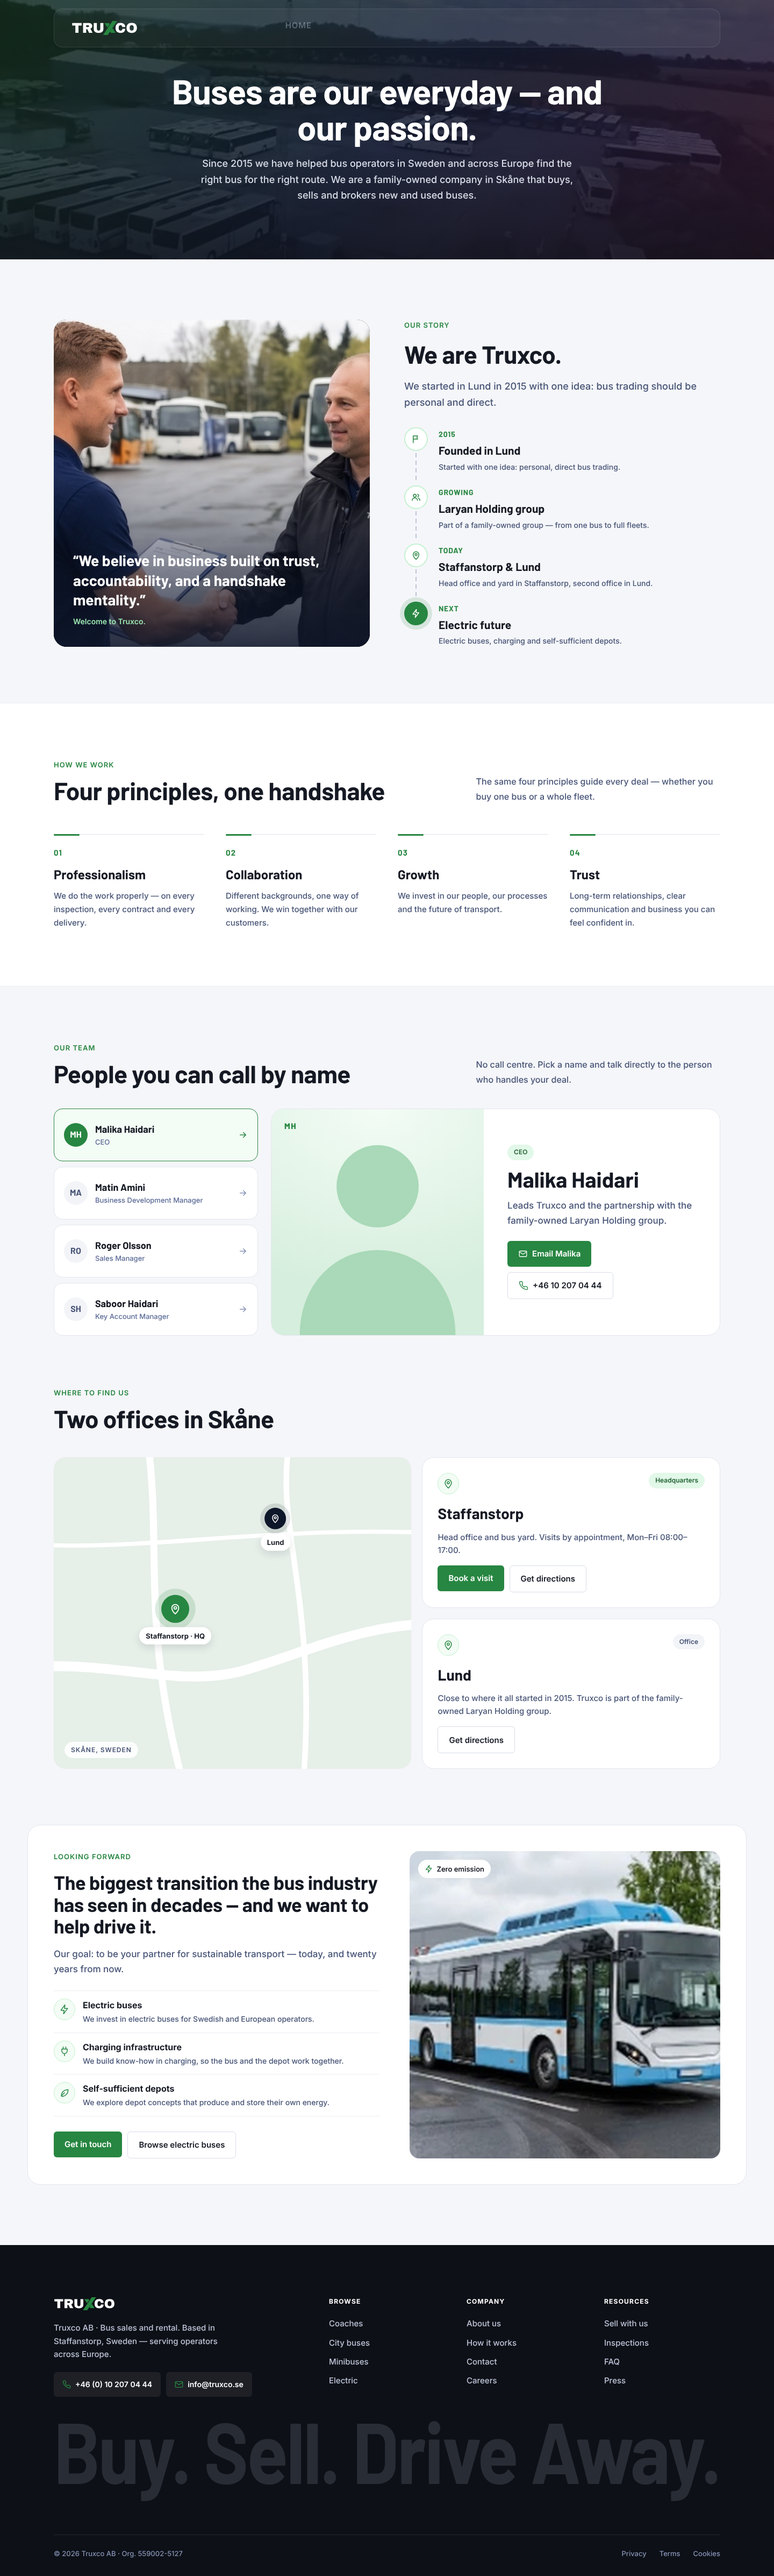
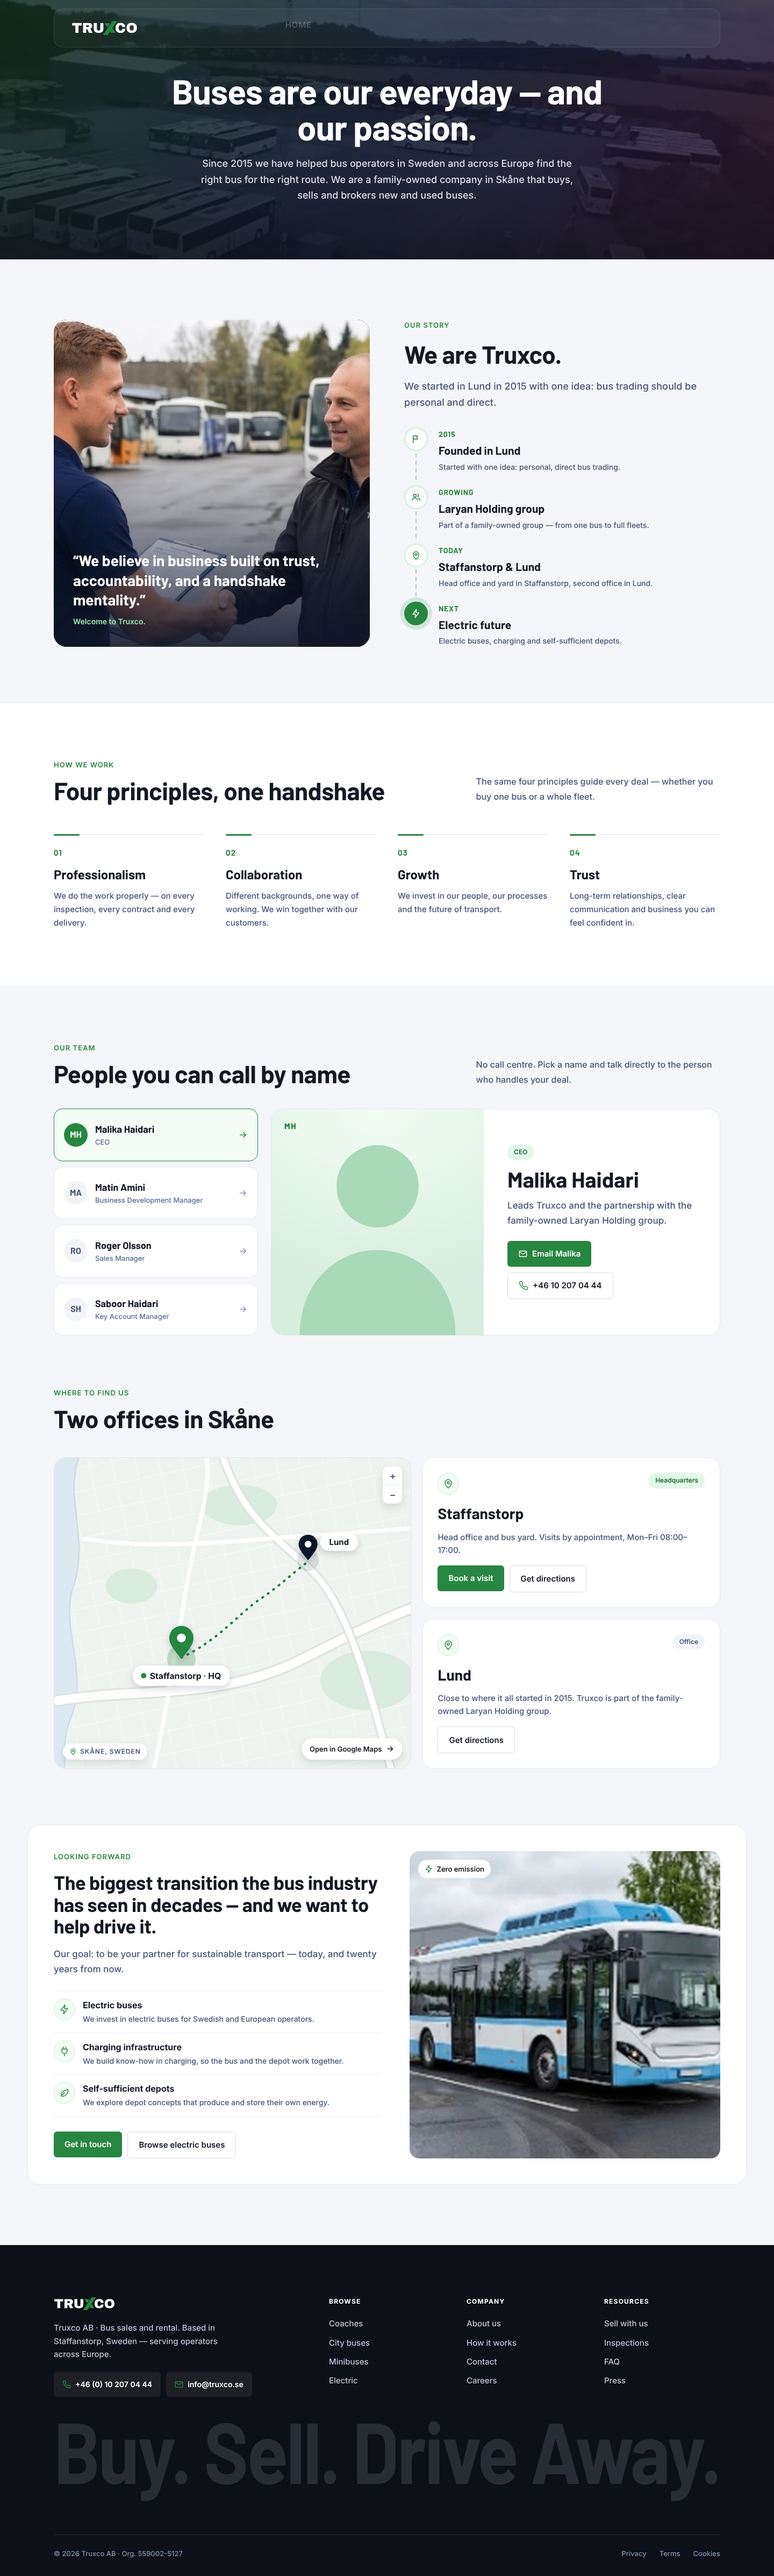
About us: refined offices map (coast, parks, roads, route, map controls)
Claude-Session: https://claude.ai/code/session_01CJrfSMbtJkdqaRmDBKHX4E

diff --git a/truxco-design/website-v2/AboutUs.dc.html b/truxco-design/website-v2/AboutUs.dc.html
@@ -382,23 +382,28 @@ a{color:#3050A6}a:hover{color:#151923}
 @media (max-width: 600px){.ofc-in,.ofc-lund{padding:24px}.ofc-in h3{font-size:32px}}
 
 .ofm-grid{display:grid;grid-template-columns:minmax(0,1.2fr) minmax(0,1fr);gap:20px}
-.ofm-map{position:relative;border-radius:22px;overflow:hidden;min-height:440px;background:#E6EFE8}
+.ofm-map{position:relative;border-radius:22px;overflow:hidden;min-height:440px;background:#EEF3EF;border:1px solid #E3E6EE}
+.ofm-svg{position:absolute;inset:0;width:100%;height:100%;display:block}
+.ofm-pulse{transform-box:fill-box;transform-origin:center;animation:ofmPulse 2.4s ease-out infinite}
+@keyframes ofmPulse{0%{transform:scale(.6);opacity:.35}100%{transform:scale(1.8);opacity:0}}
+.ofm-ctrl{position:absolute;top:16px;right:16px;display:flex;flex-direction:column;background:#FFFFFF;border-radius:10px;box-shadow:0 6px 16px rgba(14,22,42,.12);overflow:hidden}.ofm-ctrl span{width:36px;height:34px;display:flex;align-items:center;justify-content:center;font-size:18px;font-weight:600;color:#475476}.ofm-ctrl span+span{border-top:1px solid #ECEEF4}
+.ofm-open{position:absolute;right:16px;bottom:16px;display:inline-flex;align-items:center;gap:8px;height:40px;padding:0 14px;border-radius:999px;background:#FFFFFF;color:#151923;text-decoration:none;font-size:13px;font-weight:600;box-shadow:0 6px 16px rgba(14,22,42,.12);transition:color .15s}.ofm-open:hover{color:#278641}.ofm-open:focus-visible{outline:2px solid #278641;outline-offset:3px}
 .ofm-roads{position:absolute;inset:0;width:100%;height:100%}
 .ofm-pin{position:absolute;transform:translate(-50%,-100%);display:flex;flex-direction:column;align-items:center;gap:8px}
 .ofm-pd{width:52px;height:52px;border-radius:50%;background:#278641;display:flex;align-items:center;justify-content:center;box-shadow:0 0 0 10px rgba(39,134,65,.18);animation:ofmPing 2.4s ease-in-out infinite}
 .ofm-pd.small{width:40px;height:40px;background:#0E162A;box-shadow:0 0 0 8px rgba(14,22,42,.12);animation:none}
 @keyframes ofmPing{50%{box-shadow:0 0 0 16px rgba(39,134,65,.1)}}
 .ofm-pl{font-size:13px;font-weight:700;color:#151923;background:#FFFFFF;padding:6px 12px;border-radius:999px;box-shadow:0 6px 16px rgba(14,22,42,.12);white-space:nowrap}
-.ofm-region{position:absolute;left:20px;bottom:20px;font-size:12px;font-weight:600;letter-spacing:.08em;text-transform:uppercase;color:#475476;background:rgba(255,255,255,.88);padding:6px 12px;border-radius:999px}
+.ofm-region{position:absolute;left:16px;bottom:16px;display:inline-flex;align-items:center;gap:6px;box-shadow:0 6px 16px rgba(14,22,42,.10);font-size:12px;font-weight:600;letter-spacing:.08em;text-transform:uppercase;color:#475476;background:rgba(255,255,255,.88);padding:6px 12px;border-radius:999px}
 .ofm-list{display:flex;flex-direction:column;gap:20px}
 .ofm-row{flex:1;background:#FFFFFF;border:1px solid #E3E6EE;border-radius:22px;padding:28px;display:flex;flex-direction:column;gap:10px}
 .ofm-top{display:flex;justify-content:space-between;align-items:center;margin-bottom:4px}
 .ofm-row h3{margin:0;font-family:'Barlow',sans-serif;font-weight:700;font-size:28px;color:#151923}
 .ofm-row p{margin:0;font-size:15px;line-height:1.6;color:#475476}
 .ofm-row .ab-row{margin-top:auto;padding-top:6px}
-@media (prefers-reduced-motion: reduce){.ofm-pd{animation:none}}
+@media (prefers-reduced-motion: reduce){.ofm-pd,.ofm-pulse{animation:none}}
 @media (max-width: 860px){.ofm-grid{grid-template-columns:minmax(0,1fr)}.ofm-map{min-height:320px}}
-@media (max-width: 600px){.ofm-row{padding:24px}}
+@media (max-width: 600px){.ofm-row{padding:24px}.ofm-region{display:none}.ofm-open{height:36px;font-size:12px}}
 
 .sty-grid{display:grid;grid-template-columns:minmax(0,1fr) minmax(0,1fr);gap:64px;align-items:stretch}
 .sty-img{position:relative;border-radius:24px;overflow:hidden;min-height:600px;display:flex;align-items:flex-end;background:#0E162A}
@@ -544,10 +549,36 @@ a{color:#3050A6}a:hover{color:#151923}
 <div style="display: flex; flex-direction: column; gap: 14px"><span class="ab-eyebrow">Where to find us</span><h2 id="ab-off-h" class="ab-h2">Two offices in Skåne</h2></div>
 <div class="ofm-grid">
 <div class="ofm-map" role="img" aria-label="Map showing the Truxco offices in Staffanstorp and Lund, Skåne">
-<svg class="ofm-roads" aria-hidden="true" viewBox="0 0 600 440" preserveAspectRatio="xMidYMid slice"><path d="M-20 300 C 120 280 220 330 320 300 S 520 220 640 240" stroke="#FFFFFF" stroke-width="14" fill="none"></path><path d="M180 -20 C 200 120 170 240 230 460" stroke="#FFFFFF" stroke-width="10" fill="none"></path><path d="M380 -20 C 360 100 420 200 400 460" stroke="#FFFFFF" stroke-width="8" fill="none"></path><path d="M-20 120 C 160 140 360 90 640 110" stroke="#FFFFFF" stroke-width="6" fill="none"></path></svg>
-<span class="ofm-pin" style="left: 62%; top: 30%"><span class="ofm-pd small"><svg aria-hidden="true" width="18" height="18" viewBox="0 0 24 24" fill="none" stroke="#FFFFFF" stroke-width="2" stroke-linecap="round" stroke-linejoin="round" style="flex: none"><path d="M12 22s7-6.2 7-12a7 7 0 0 0-14 0c0 5.8 7 12 7 12z"></path><circle cx="12" cy="10" r="2.6"></circle></svg></span><span class="ofm-pl">Lund</span></span>
-<span class="ofm-pin" style="left: 34%; top: 60%"><span class="ofm-pd"><svg aria-hidden="true" width="22" height="22" viewBox="0 0 24 24" fill="none" stroke="#FFFFFF" stroke-width="2" stroke-linecap="round" stroke-linejoin="round" style="flex: none"><path d="M12 22s7-6.2 7-12a7 7 0 0 0-14 0c0 5.8 7 12 7 12z"></path><circle cx="12" cy="10" r="2.6"></circle></svg></span><span class="ofm-pl">Staffanstorp · HQ</span></span>
-<span class="ofm-region">Skåne, Sweden</span>
+<svg class="ofm-svg" aria-hidden="true" viewBox="0 0 640 460" preserveAspectRatio="xMidYMid slice">
+<defs>
+<filter id="ofmSh" x="-30%" y="-30%" width="160%" height="180%"><feDropShadow dx="0" dy="4" stdDeviation="5" flood-color="#0E162A" flood-opacity=".16"></feDropShadow></filter>
+<pattern id="ofmGrid" width="34" height="34" patternUnits="userSpaceOnUse" patternTransform="rotate(-12)"><path d="M34 0H0V34" fill="none" stroke="#FFFFFF" stroke-width="1.4" opacity=".7"></path></pattern>
+</defs>
+<rect width="640" height="460" fill="#EEF3EF"></rect>
+<rect width="640" height="460" fill="url(#ofmGrid)"></rect>
+<path d="M0 0H92C70 60 108 120 84 190C62 252 110 320 78 390C66 424 74 446 70 460H0Z" fill="#DCE9F1"></path>
+<path d="M92 0C70 60 108 120 84 190C62 252 110 320 78 390C66 424 74 446 70 460" fill="none" stroke="#C9DCE8" stroke-width="2"></path>
+<ellipse cx="520" cy="330" rx="70" ry="44" fill="#D9ECDF"></ellipse>
+<ellipse cx="330" cy="70" rx="56" ry="30" fill="#D9ECDF"></ellipse>
+<ellipse cx="170" cy="190" rx="38" ry="26" fill="#D9ECDF"></ellipse>
+<g fill="none" stroke-linecap="round">
+<path d="M60 360C180 340 300 360 420 300S600 210 680 200" stroke="#DCE4DE" stroke-width="18"></path>
+<path d="M60 360C180 340 300 360 420 300S600 210 680 200" stroke="#FFFFFF" stroke-width="13"></path>
+<path d="M300 -20C330 90 390 120 440 170S520 330 560 480" stroke="#DCE4DE" stroke-width="14"></path>
+<path d="M300 -20C330 90 390 120 440 170S520 330 560 480" stroke="#FFFFFF" stroke-width="9"></path>
+<path d="M100 120C220 140 330 120 660 100" stroke="#FFFFFF" stroke-width="6"></path>
+<path d="M200 480C220 380 230 320 250 200S290 60 280 -20" stroke="#FFFFFF" stroke-width="6"></path>
+</g>
+<text x="590" y="214" font-family="Inter,sans-serif" font-size="10" font-weight="700" fill="#8693B6" letter-spacing="1">E22</text>
+<path d="M244 296C300 270 330 230 360 210S410 170 432 154" fill="none" stroke="#278641" stroke-width="3.5" stroke-linecap="round" stroke-dasharray="1 9"></path>
+<g transform="translate(432 152)"><circle r="16" fill="#0E162A" opacity=".1"></circle><path d="M0 0C-10-12-14-18-14-24A14 14 0 0 1 14-24C14-18 10-12 0 0Z" fill="#0E162A" filter="url(#ofmSh)"></path><circle cx="0" cy="-24" r="5" fill="#FFFFFF"></circle>
+<g filter="url(#ofmSh)"><rect x="18" y="-40" width="56" height="26" rx="13" fill="#FFFFFF"></rect></g><text x="46" y="-22.5" text-anchor="middle" font-family="Inter,sans-serif" font-size="12" font-weight="700" fill="#151923">Lund</text></g>
+<g transform="translate(244 298)"><circle class="ofm-pulse" r="22" fill="#278641" opacity=".18"></circle><path d="M0 0C-13-15-18-23-18-31A18 18 0 0 1 18-31C18-23 13-15 0 0Z" fill="#278641" filter="url(#ofmSh)"></path><circle cx="0" cy="-31" r="6.5" fill="#FFFFFF"></circle>
+<g filter="url(#ofmSh)"><rect x="-72" y="10" width="144" height="30" rx="15" fill="#FFFFFF"></rect></g><circle cx="-56" cy="25" r="4" fill="#278641"></circle><text x="6" y="29.5" text-anchor="middle" font-family="Inter,sans-serif" font-size="12.5" font-weight="700" fill="#151923">Staffanstorp · HQ</text></g>
+</svg>
+<div class="ofm-ctrl" aria-hidden="true"><span>+</span><span>−</span></div>
+<span class="ofm-region"><svg aria-hidden="true" width="14" height="14" viewBox="0 0 24 24" fill="none" stroke="#278641" stroke-width="2" stroke-linecap="round" stroke-linejoin="round" style="flex: none"><path d="M12 22s7-6.2 7-12a7 7 0 0 0-14 0c0 5.8 7 12 7 12z"></path><circle cx="12" cy="10" r="2.6"></circle></svg>Skåne, Sweden</span>
+<a class="ofm-open" href="https://maps.google.com/?q=Truxco+Staffanstorp" target="_blank" rel="noopener">Open in Google Maps <svg aria-hidden="true" width="16" height="16" viewBox="0 0 24 24" fill="none" stroke="#151923" stroke-width="2" stroke-linecap="round" stroke-linejoin="round" style="flex: none"><path d="M5 12h14M13 6l6 6-6 6"></path></svg></a>
 </div>
 <div class="ofm-list">
 <article class="ofm-row"><div class="ofm-top"><span class="ab-ic"><svg aria-hidden="true" width="20" height="20" viewBox="0 0 24 24" fill="none" stroke="#278641" stroke-width="1.8" stroke-linecap="round" stroke-linejoin="round" style="flex: none"><path d="M12 22s7-6.2 7-12a7 7 0 0 0-14 0c0 5.8 7 12 7 12z"></path><circle cx="12" cy="10" r="2.6"></circle></svg></span><span class="ab-tag">Headquarters</span></div><h3>Staffanstorp</h3><p>Head office and bus yard. Visits by appointment, Mon–Fri 08:00–17:00.</p><div class="ab-row"><a class="ab-btn" href="Contact.dc.html#visit">Book a visit</a><a class="ab-btn2" href="https://maps.google.com/?q=Staffanstorp,Sweden" target="_blank" rel="noopener">Get directions</a></div></article>
